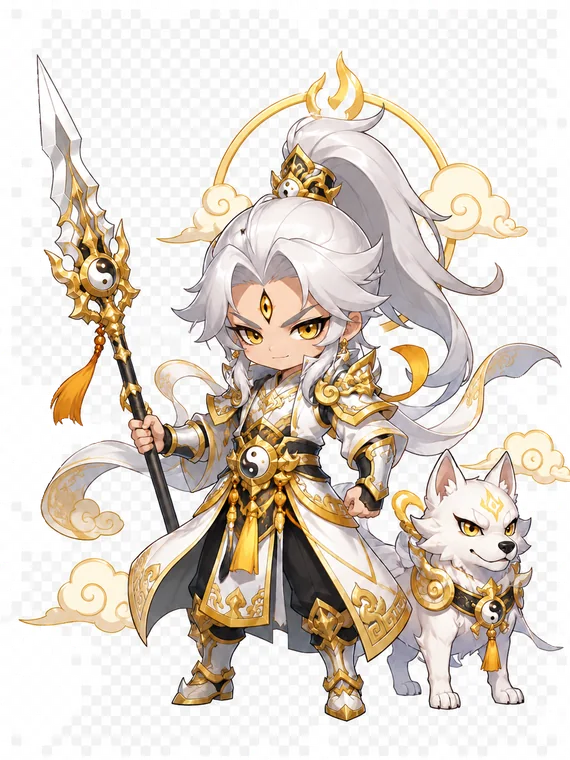
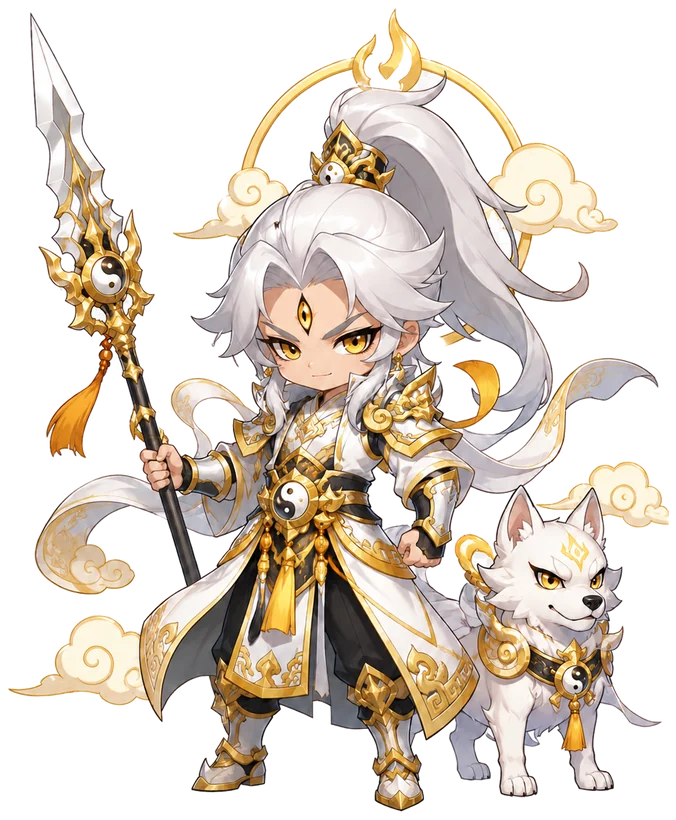
Update Erlang artwork assets

diff --git a/game.js b/game.js
@@ -178,9 +178,9 @@ const HEROES = {
     name: "二郎神·噬天",
     enemyName: "噬天镜像",
     maxHp: 6,
-    avatar: "assets/erlang-avatar-opt.webp?v=1",
-    normalArt: "assets/erlang-opt.webp?v=1",
-    stealthArt: "assets/erlang-opt.webp?v=1",
+    avatar: "assets/erlang-avatar-opt.webp?v=2",
+    normalArt: "assets/erlang-opt.webp?v=2",
+    stealthArt: "assets/erlang-opt.webp?v=2",
     actionOrder: ["charge", "attack", "defend", "dodge", "taunt", "erlangBite", "erlangEye", "erlangBlackhole", "erlangUltimate"],
   },
 };

diff --git a/index.html b/index.html
@@ -27,7 +27,7 @@
             </span>
           </button>
           <button class="hero-option hero-option-erlang" type="button" data-hero="erlang">
-            <img src="assets/erlang-avatar-opt.webp?v=1" alt="" />
+            <img src="assets/erlang-avatar-opt.webp?v=2" alt="" />
             <span>
               <strong>二郎神·噬天</strong>
               <small>狗咬、阴眼、黑洞、暴风斩</small>
@@ -193,6 +193,6 @@
       </section>
     </main>
 
-    <script src="game.js?v=19"></script>
+    <script src="game.js?v=20"></script>
   </body>
 </html>